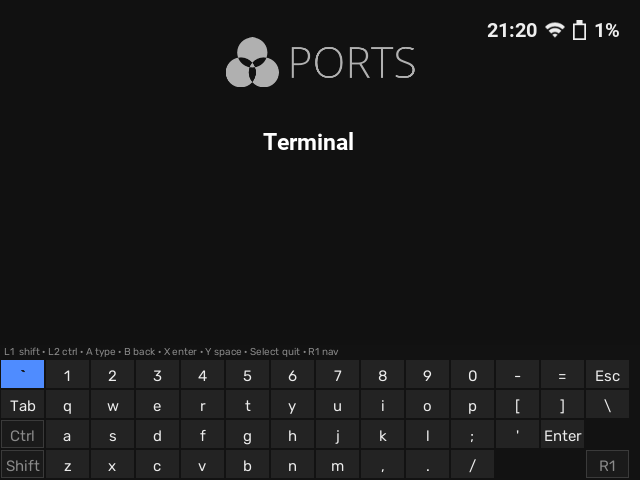
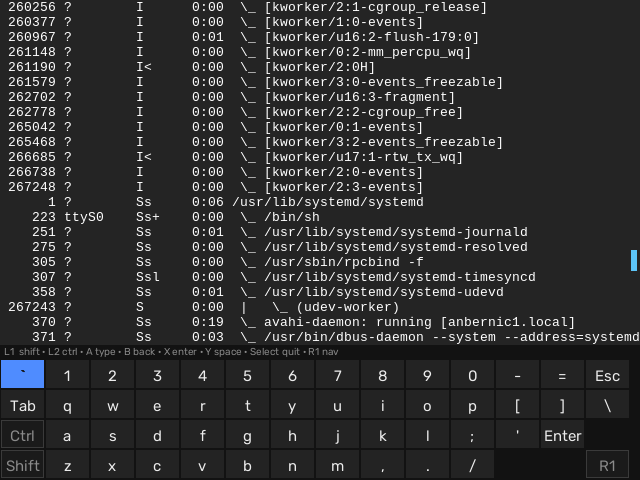
Use a real foot session for the lead screenshot
Ran ls/top/ps fax over a foot terminal launched the same way
Terminal.sh does, instead of showing the empty Ports launcher card.

Claude-Session: https://claude.ai/code/session_01Q76q73r1GRCsbFu2sCdqhB

diff --git a/README.md b/README.md
@@ -8,7 +8,7 @@ takes keyboard focus, reads the pad straight from evdev, and types through a
 uinput device. Keystrokes land in whatever the compositor has focused, so no
 pointer, no compositor-specific IPC, and no input-method support is needed.
 
-![The keyboard grid over a terminal, digit row selected](docs/img/grid.png)
+![The keyboard grid over a foot terminal running ps fax](docs/img/grid.png)
 
 ## Controls
 
